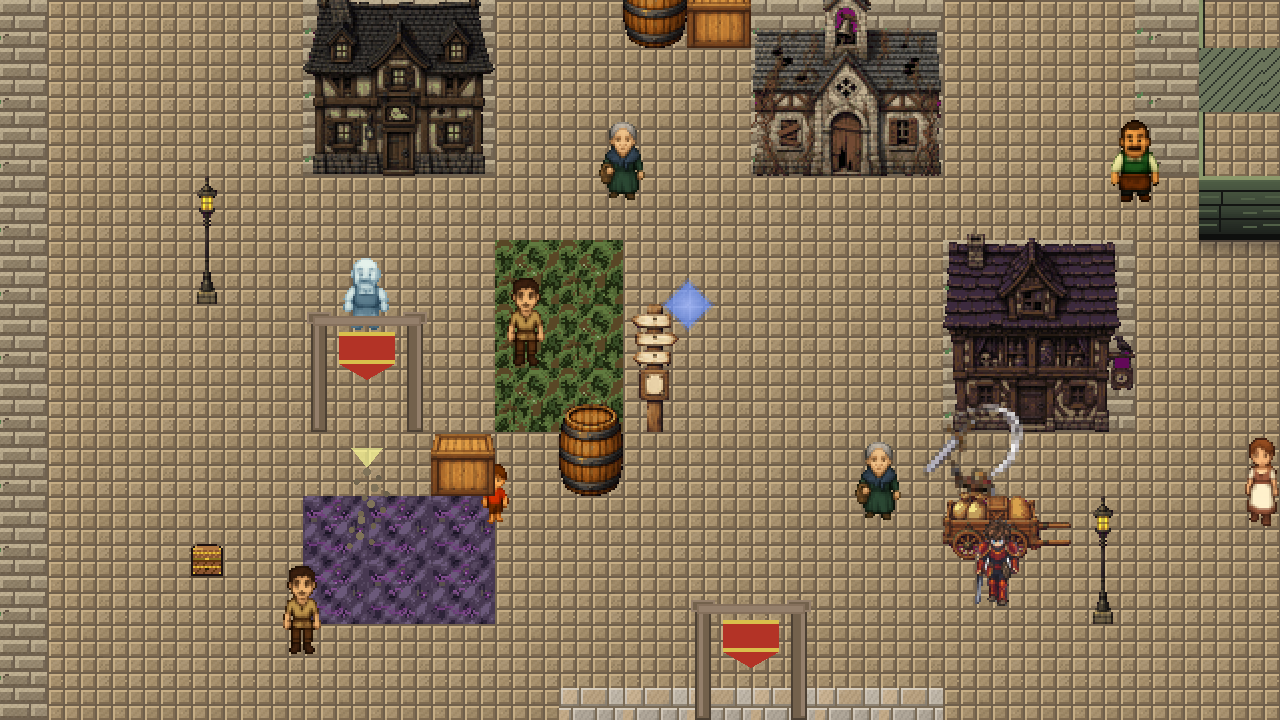
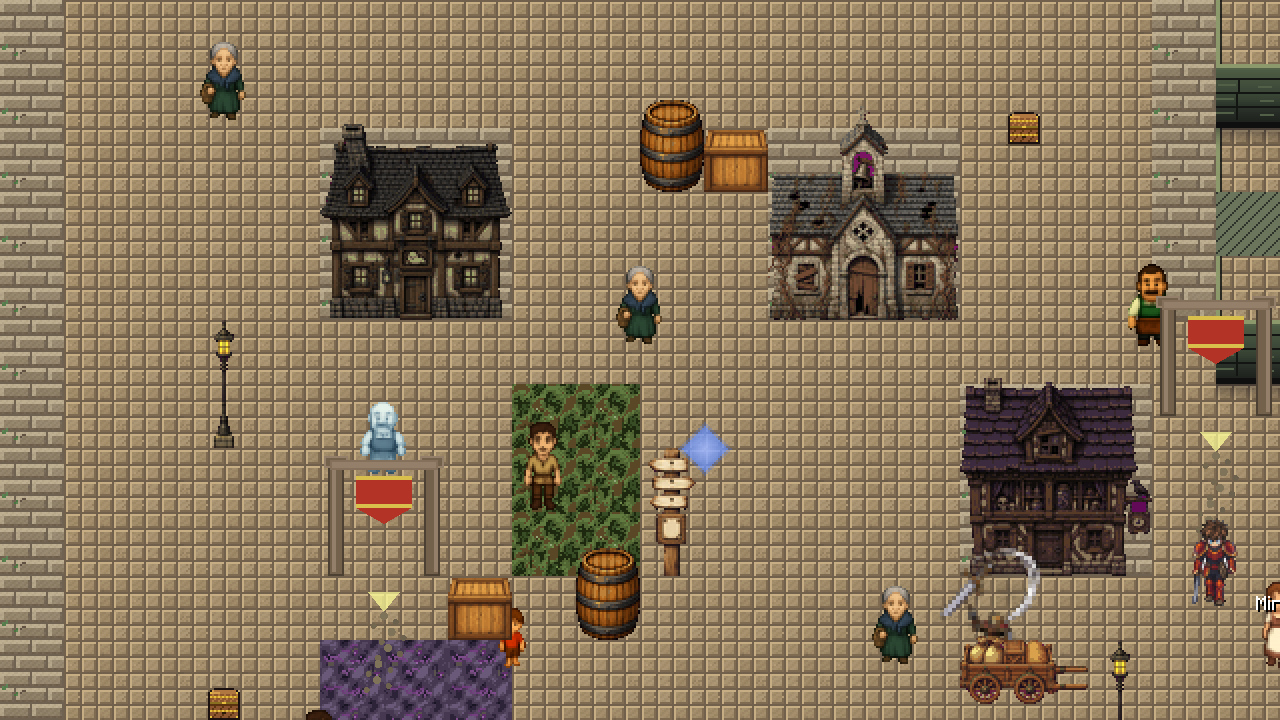
store: re-shoot grimhollow at v3.33.814-alpha, framed inside its walls
Held at .813: after its door moved, the frame showed a 118 px grey band past the map's
left edge. .814's shot tool holds the view inside the map, and this run's frame has no
band. It is run A of the .814 publish's own store recheck (run B identical), read by
eye: the hero stands under the Lantern Debt Office's arch near the right edge.

Claude-Session: https://claude.ai/code/session_01W2qjrDSfZUL4M11aPpJvXX

diff --git a/itch-assets/CAPTIONS.md b/itch-assets/CAPTIONS.md
@@ -12,15 +12,24 @@
 | `v3.33.774-alpha` | (none left: `sandrift_village` · `title_screen` re-shot at `.807`) | "re-shot at `v3.33.774-alpha`, a name said once" |
 | `v3.33.802-alpha` | `inn_interior` (`shop_interior` re-shot at `.807`) | "re-shot at `v3.33.802-alpha`, the rooms are drawn" |
 | `v3.33.788-alpha` | (none left: `battle` re-shot at `.807`) | "re-shot at `v3.33.788-alpha`, the speed readout keeps its width" |
-| `v3.33.807-alpha` | `eldertree_village` · `grimhollow_village` · `shop_interior` · `title_screen` (`ironhaven_village` re-shot at `.810`; `battle` · `battle_storm` · `frosthold_village` · `grimhollow_spiral` · `sandrift_village` at `.813`) | "re-shot at `v3.33.807-alpha`, the pixel face" |
+| `v3.33.807-alpha` | `eldertree_village` · `shop_interior` · `title_screen` (`grimhollow_village` re-shot at `.814`; `ironhaven_village` re-shot at `.810`; `battle` · `battle_storm` · `frosthold_village` · `grimhollow_spiral` · `sandrift_village` at `.813`) | "re-shot at `v3.33.807-alpha`, the pixel face" |
 | `v3.33.809-alpha` | `whispering_cave` · `infernal_grotto_f3` · `warren_lever_portals` · `warren_wrap_field` | "re-shot at `v3.33.809-alpha`, the stairs point the way" |
 | `v3.33.810-alpha` | `ironhaven_village` | "re-shot at `v3.33.810-alpha`, who walks there now" |
 | `v3.33.813-alpha` | `battle` · `battle_storm` · `grimhollow_spiral` · `harmonia_village` · `frosthold_village` · `sandrift_village` | "re-shot at `v3.33.813-alpha`, the frames follow the doors" |
+| `v3.33.814-alpha` | `grimhollow_village` | "re-shot at `v3.33.814-alpha`, framed inside its walls" |
 
 Re-derive it rather than trusting this table: `git log -1 --format=%h -- itch-assets/screenshots/<shot>.png`
 names the commit, and that commit's message names the tag it was shot from. Which of them have gone
 stale since: `tools/store_shot_staleness.py --from <capture tag> --to <store tag>` (a candidate list,
 never a verdict; decide in pixels with `--compare`).
+
+**2026-11-20: re-shot at `v3.33.814-alpha`, framed inside its walls.** The frame held at `.813`. From `.814` the shot
+tool keeps a village's view inside the map (`[SHOT] view held inside the map: centre (260, 244) -> (320, 244)` in this
+run's log), so Grimhollow's frame no longer shows the 118 px grey band past its left edge. Moved vs the shipped `.807`
+frame 47.74%, run A vs run B 0.00%: the whole frame, because the hero now stands at the Lantern Debt Office's arch
+(608, 352), where `.813` moved that door. Read: no band; the hero is near the right edge under the arch, and one
+villager's name tag is clipped by the frame's right edge. Frame is run A of the `.814` publish's own store recheck.
+Still HELD: the three `field_elite_*` frames (no tell).
 
 **2026-11-20: re-shot at `v3.33.813-alpha`, the frames follow the doors.** `.813` moves doors in six villages and
 fits the battle's party panel. Six frames replaced, each run A of the `.813` publish's own store recheck, each read
